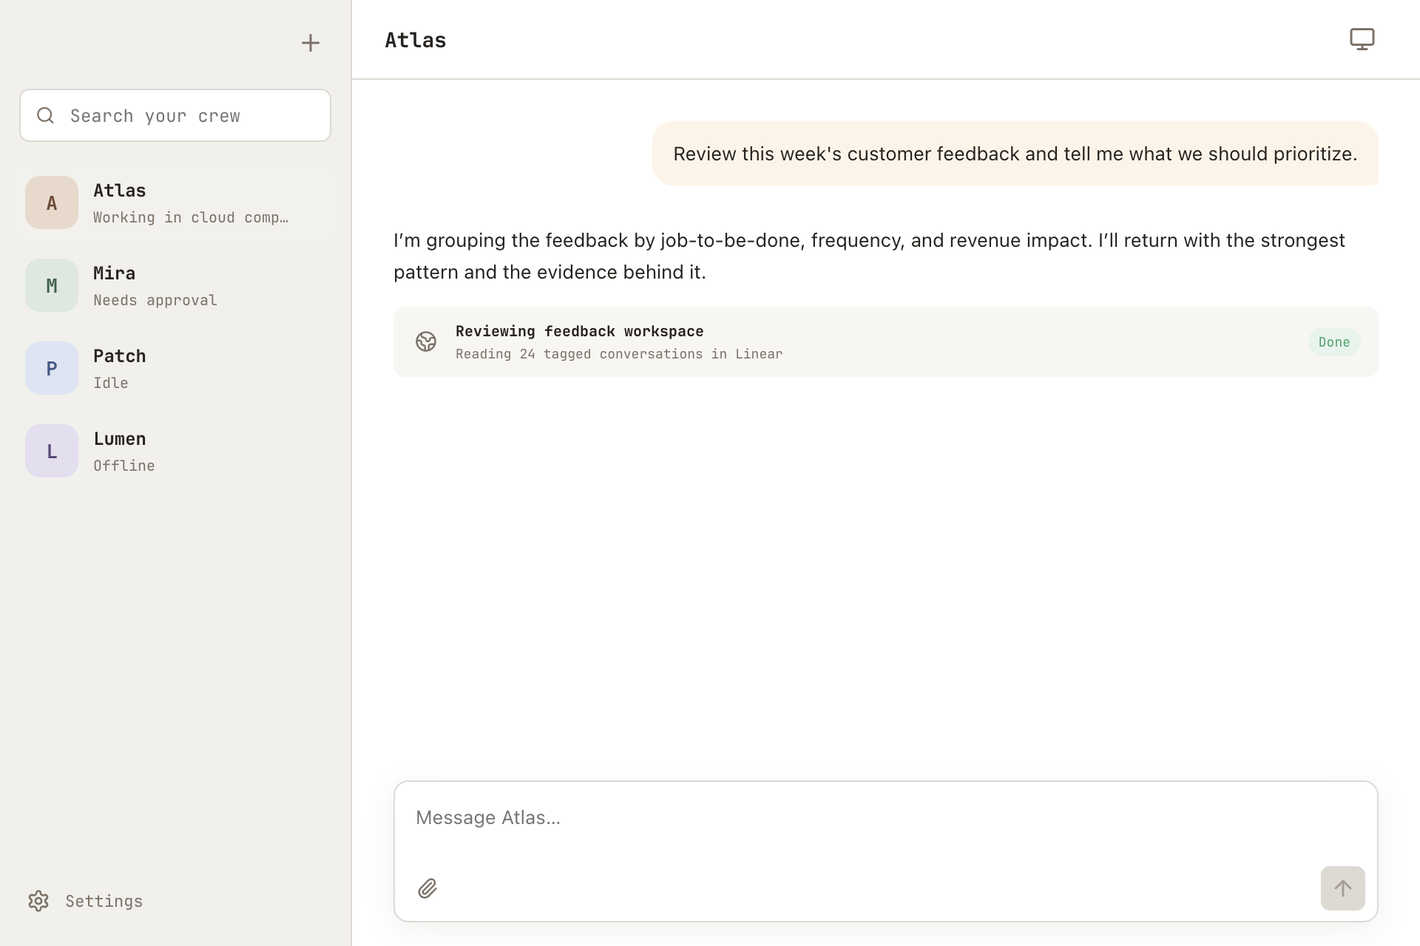
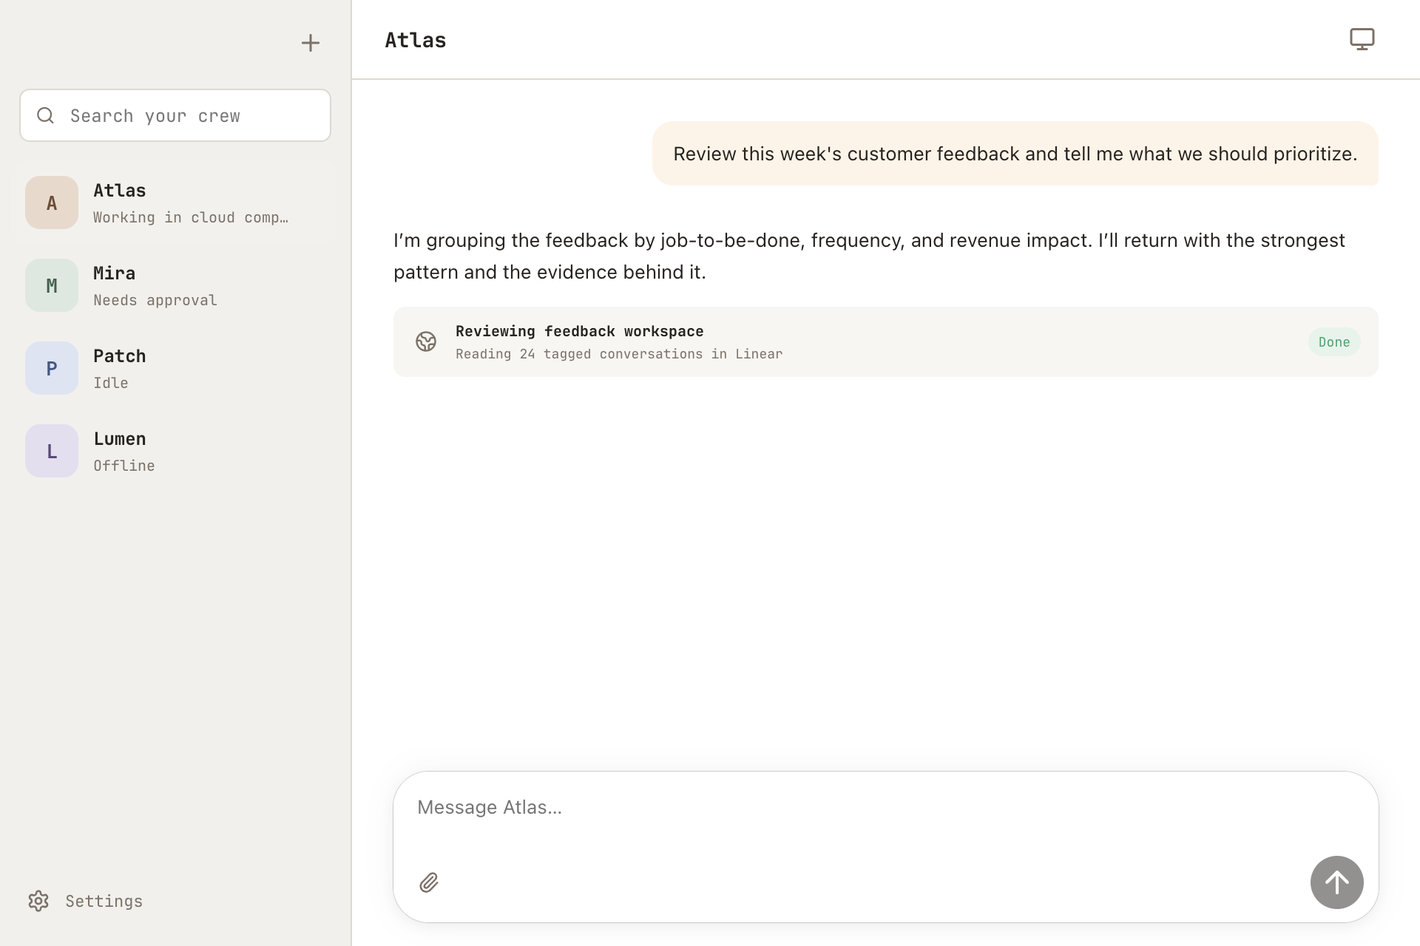
fix: reduce UI to essential controls

Changed region(s): [[0.9062, 0.9062, 0.9688, 0.9688], [0.2812, 0.8438, 0.4062, 0.875], [0.2812, 0.9062, 0.3125, 0.9688]]

diff --git a/src/ui/styles.css b/src/ui/styles.css
@@ -14,7 +14,7 @@ html, body, #root { width:100%; height:100%; margin:0; overflow:hidden; backgrou
 button, input, textarea, select { font:inherit; color:inherit; } button { cursor:pointer; }
 .app-shell { display:grid; grid-template-columns:272px minmax(460px,1fr); height:100%; }
 .app-shell.details-open { grid-template-columns:272px minmax(460px,1fr); }
-.agent-sidebar { display:flex; flex-direction:column; min-width:0; padding:10px 12px 12px; border-right:1px solid var(--border); background:var(--sidebar); -webkit-app-region:drag; }
+.agent-sidebar { display:flex; flex-direction:column; min-width:0; padding:10px 12px 12px; border-right:.5px solid color-mix(in srgb,var(--border) 76%,transparent); background:var(--sidebar); -webkit-app-region:drag; }
 .agent-sidebar button, .agent-sidebar input { -webkit-app-region:no-drag; }
 .sidebar-titlebar { display:flex; align-items:center; justify-content:flex-end; height:38px; padding:0 3px 0 66px; }
 .brand-add{display:grid;width:30px;height:30px;margin-left:auto;place-items:center;padding:0;border:0;border-radius:6px;background:transparent;color:var(--muted)}.brand-add:hover{background:var(--surface);color:var(--text)}
@@ -26,7 +26,7 @@ button, input, textarea, select { font:inherit; color:inherit; } button { cursor
 .avatar { position:relative;display:grid;place-items:center;flex:0 0 auto;width:36px;height:36px;border-radius:10px;background:#ead9cb;color:#714931;font-size:13px;font-weight:700; }.avatar-mira{background:#dce8df;color:#37604a}.avatar-patch{background:#dce4f2;color:#3e5884}.avatar-lumen{background:#e5dff0;color:#594775}.avatar.large{width:54px;height:54px;border-radius:15px;font-size:18px;}
 .agent-copy{display:flex;flex:1;min-width:0;flex-direction:column;gap:4px}.agent-copy strong{display:flex;align-items:center;justify-content:space-between;gap:5px;font-size:12px}.agent-copy strong>span{display:flex;min-width:0;align-items:center;gap:4px}.agent-copy strong svg{color:var(--primary)}.agent-copy time{color:var(--faint);font-size:8px;font-weight:400}.agent-copy>span{overflow:hidden;text-overflow:ellipsis;white-space:nowrap;color:var(--muted);font-size:10px}.count{display:grid;place-items:center;min-width:18px;height:18px;border-radius:9px;background:var(--text);color:var(--surface);font-size:9px}.count.attention{background:var(--amber);color:#fff}
 .sidebar-bottom{display:flex;flex-direction:column;border-top:1px solid var(--border);padding-top:8px}.sidebar-bottom button{display:flex;align-items:center;gap:10px;height:37px;padding:0 9px;border:0;border-radius:6px;background:transparent;color:var(--muted);font-size:11px}.sidebar-bottom button:hover{background:var(--surface);color:var(--text)}
-.conversation{display:grid;grid-template-rows:73px minmax(0,1fr) auto;min-width:0;background:var(--surface)}.conversation-header{display:flex;align-items:center;justify-content:space-between;padding:0 22px;border-bottom:1px solid var(--border);-webkit-app-region:drag}.conversation-header button{-webkit-app-region:no-drag}.conversation-header h1{margin:0;font-size:14px}.conversation-header p{margin:5px 0 0;color:var(--muted);font-size:10px}.header-actions{display:flex;align-items:center;gap:9px}.connection{display:flex;align-items:center;gap:6px;color:var(--muted);font-size:10px}.connection:before{content:"";width:7px;height:7px;border-radius:50%;background:var(--red)}.connection.connected:before{background:var(--green)}.connection.connecting:before{background:var(--amber)}.icon-button,.computer-trigger{display:grid;place-items:center;width:34px;height:34px;padding:0;border:0;border-radius:6px;background:transparent;color:var(--muted)}.icon-button:hover,.computer-trigger:hover{background:var(--bg);color:var(--text)}.computer-trigger{border:1px solid var(--border);background:var(--surface)}
+.conversation{display:grid;grid-template-rows:73px minmax(0,1fr) auto;min-width:0;background:var(--surface)}.conversation-header{display:flex;align-items:center;justify-content:space-between;padding:0 22px;border-bottom:.5px solid transparent;transition:border-color .12s ease;-webkit-app-region:drag}.conversation-header.scrolled{border-bottom-color:color-mix(in srgb,var(--border) 76%,transparent)}.conversation-header button{-webkit-app-region:no-drag}.conversation-header h1{margin:0;font-size:14px}.conversation-header p{margin:5px 0 0;color:var(--muted);font-size:10px}.header-actions{display:flex;align-items:center;gap:9px}.connection{display:flex;align-items:center;gap:6px;color:var(--muted);font-size:10px}.connection:before{content:"";width:7px;height:7px;border-radius:50%;background:var(--red)}.connection.connected:before{background:var(--green)}.connection.connecting:before{background:var(--amber)}.icon-button,.computer-trigger{display:grid;place-items:center;width:34px;height:34px;padding:0;border:0;border-radius:6px;background:transparent;color:var(--muted)}.icon-button:hover,.computer-trigger:hover{background:var(--bg);color:var(--text)}.computer-trigger{border:1px solid var(--border);background:var(--surface)}
 .palette-trigger{display:flex;align-items:center;gap:6px;height:30px;padding:0 7px;border:1px solid var(--border);border-radius:6px;background:var(--bg);color:var(--muted);font-size:9px}.palette-trigger:hover{color:var(--text)}kbd{display:inline-grid;min-width:18px;height:18px;place-items:center;padding:0 4px;border:1px solid var(--border);border-radius:4px;background:var(--surface);color:var(--muted);font-size:8px;line-height:1;box-shadow:0 1px 0 var(--border)}
 .message-scroll{overflow:auto;padding:28px max(28px,calc((100% - 720px)/2));scrollbar-gutter:stable}.conversation-intro{display:flex;flex-direction:column;align-items:center;padding:18px 20px 36px;text-align:center}.conversation-intro h2{margin:13px 0 6px;font-size:17px}.conversation-intro p{max-width:530px;margin:0;color:var(--muted);font:12px/1.65 -apple-system,BlinkMacSystemFont,"Segoe UI",sans-serif}.conversation-intro>span{margin-top:10px;color:var(--faint);font-size:9px;text-transform:uppercase;letter-spacing:.08em}
 .message{max-width:680px;margin:0 auto 26px}.message.user{display:flex;align-items:flex-end;flex-direction:column}.message-author{margin:0 0 7px;color:var(--muted);font-size:9px;text-transform:uppercase;letter-spacing:.07em}.message-body{font:13px/1.65 -apple-system,BlinkMacSystemFont,"Segoe UI",sans-serif;white-space:pre-wrap}.message.user .message-body{max-width:78%;padding:11px 14px;border-radius:14px 14px 4px 14px;background:var(--primary-soft)}.streaming-caret{display:inline-block;width:6px;height:14px;margin-left:3px;vertical-align:-2px;background:var(--primary);animation:blink 1s steps(2) infinite}@keyframes blink{50%{opacity:0}}
@@ -40,7 +40,7 @@ button, input, textarea, select { font:inherit; color:inherit; } button { cursor
 .delete-agent-copy{padding:20px;font:12px/1.6 -apple-system,BlinkMacSystemFont,"Segoe UI",sans-serif}.delete-agent-copy p{margin:0 0 10px;color:var(--muted)}.delete-agent-copy strong{color:var(--red);font-size:11px}.delete-actions{padding:0 20px 20px}.destructive-button{background:var(--red);color:white}.destructive-button:hover{background:color-mix(in srgb,var(--red) 84%,black)}
 .palette-backdrop{position:fixed;z-index:40;inset:0;display:flex;align-items:flex-start;justify-content:center;padding-top:min(16vh,140px);background:rgb(30 25 21/.24);backdrop-filter:blur(3px)}.command-palette{width:min(620px,calc(100vw - 48px));overflow:hidden;border:1px solid var(--border);border-radius:10px;background:var(--surface-raised);box-shadow:0 24px 70px rgb(46 34 24/.2)}.command-palette>label{display:flex;align-items:center;gap:10px;height:54px;padding:0 14px;border-bottom:1px solid var(--border);color:var(--muted)}.command-palette>label input{flex:1;border:0;outline:0;background:transparent;font-size:12px}.palette-results{max-height:360px;overflow:auto;padding:7px}.palette-results button{display:flex;align-items:center;gap:11px;width:100%;padding:9px;border:0;border-radius:6px;background:transparent;text-align:left}.palette-results button:hover,.palette-results button.active{background:var(--primary-soft)}.palette-results button>span{display:grid;width:31px;height:31px;place-items:center;border:1px solid var(--border);border-radius:6px;background:var(--surface);color:var(--muted)}.palette-results button>div{display:flex;flex:1;flex-direction:column;gap:4px}.palette-results strong{font-size:10px}.palette-results small{color:var(--muted);font-size:8px;text-transform:capitalize}.palette-results>p{padding:26px;text-align:center;color:var(--muted);font-size:10px}.command-palette footer{display:flex;justify-content:space-between;padding:9px 12px;border-top:1px solid var(--border);color:var(--faint);font-size:8px}.command-palette footer>span:last-child{display:flex;align-items:center;gap:3px}
 .computer-window{width:min(920px,100%);height:min(620px,100%);overflow:hidden;border:1px solid var(--border);border-radius:11px;background:var(--surface);box-shadow:var(--shadow)}.computer-window>header{display:flex;align-items:center;justify-content:space-between;height:46px;padding:0 14px;border-bottom:1px solid var(--border);font-size:10px}.computer-window>header>div{display:flex;align-items:center;gap:7px}.computer-window>header button{border:0;background:transparent;color:var(--muted);font-size:10px}.status-dot{width:7px;height:7px;border-radius:50%;background:var(--green)}.computer-placeholder{display:flex;height:calc(100% - 46px);align-items:center;justify-content:center;flex-direction:column;background:linear-gradient(145deg,var(--bg),var(--surface));color:var(--muted);text-align:center}.computer-placeholder h2{margin:16px 0 7px;color:var(--text);font-size:16px}.computer-placeholder p{margin:0;font:12px -apple-system,BlinkMacSystemFont,"Segoe UI",sans-serif}.computer-placeholder span{margin-top:16px;color:var(--faint);font-size:9px}.error-toast{position:fixed;z-index:30;right:20px;bottom:20px;display:flex;align-items:center;gap:10px;max-width:430px;padding:11px 12px;border:1px solid color-mix(in srgb,var(--red) 30%,var(--border));border-radius:7px;background:var(--surface);box-shadow:var(--shadow);font-size:10px}.error-toast svg{color:var(--red)}.error-toast button{margin-left:8px;border:0;background:transparent;color:var(--primary);font-size:9px}.loading-screen,.empty-state{display:flex;height:100%;align-items:center;justify-content:center;gap:18px;color:var(--muted);font-size:11px}.loading-logo{width:34px;height:34px;object-fit:contain}
-.conversation{height:100%;overflow:hidden;grid-template-rows:54px minmax(0,1fr) auto}.message-scroll{min-height:0}.composer{margin-bottom:16px}.composer textarea{min-height:48px;padding-bottom:4px}.composer-bottom{padding:0 8px 7px}.message-reactions{opacity:0}.computer-trigger{border:0!important;background:transparent!important}.activity-card{border:0;background:var(--bg)}.activity-icon{width:20px;height:20px;background:transparent}.sidebar-bottom{border-top:0}.agent-row.selected{box-shadow:none;background:color-mix(in srgb,var(--border) 38%,var(--surface))}
+.conversation{height:100%;overflow:hidden;grid-template-rows:54px minmax(0,1fr) auto}.message-scroll{min-height:0}.composer{max-width:48rem;margin-bottom:16px;border:0;border-radius:24px;box-shadow:0 0 0 .5px color-mix(in srgb,var(--text) 20%,transparent),0 3px 7.5px rgb(0 0 0/.04),0 0 20px rgb(0 0 0/.05);background:color-mix(in srgb,var(--surface) 96%,transparent)}.composer textarea{min-height:48px;padding:14px 16px 4px}.composer-bottom{padding:0 10px 9px}.composer-bottom>.submit-button{width:36px;height:36px;border-radius:9999px;background:var(--text);color:var(--surface);opacity:1;transition:opacity .15s,transform .15s}.composer-bottom>.submit-button:hover:not(:disabled){background:var(--text);color:var(--surface);transform:scale(1.03)}.composer-bottom>.submit-button:active:not(:disabled){transform:scale(.96)}.composer-bottom>.submit-button:disabled{cursor:default;background:var(--text);color:var(--surface);opacity:.5}.composer-bottom>.submit-button:focus-visible{outline:2px solid var(--surface);outline-offset:-3px;box-shadow:0 0 0 2px var(--text)}.composer-bottom>.submit-button svg{width:24px;height:24px}.message-reactions{opacity:0}.computer-trigger{border:0!important;background:transparent!important}.activity-card{border:0;background:var(--bg)}.activity-icon{width:20px;height:20px;background:transparent}.sidebar-bottom{border-top:0}.agent-row.selected{box-shadow:none;background:color-mix(in srgb,var(--border) 38%,var(--surface))}
 @media (max-width:1180px){.agent-sidebar{padding-left:9px;padding-right:9px}.detail-panel{width:340px;padding-left:13px;padding-right:13px}}
 @media (max-width:1030px){.app-shell,.app-shell.details-open{grid-template-columns:238px minmax(0,1fr)}.message-scroll{padding-left:28px;padding-right:28px}.composer{margin-left:28px;margin-right:28px}}
 @media (max-width:1080px){.palette-trigger span{display:none}.palette-trigger{width:32px;justify-content:center}.palette-trigger kbd{display:none}}

diff --git a/src/ui/components/Conversation.tsx b/src/ui/components/Conversation.tsx
@@ -1,10 +1,11 @@
-import { ArrowUp, CircleStop, Cloud, File, FileText, Globe2, LoaderCircle, Monitor, Paperclip, Terminal, ThumbsDown, ThumbsUp, X } from "lucide-react";
+import { CircleStop, Cloud, File, FileText, Globe2, LoaderCircle, Monitor, Paperclip, Terminal, ThumbsDown, ThumbsUp, X } from "lucide-react";
 import { useEffect, useRef, useState, type FormEvent } from "react";
 import type { ActivityEvent, Agent, Attachment, ConnectionState, Message, ReactionKind } from "@/domain/types";
 
 const activityIcon = { browser: Globe2, terminal: Terminal, file: FileText, handoff: Cloud, status: Cloud };
 function textOf(message: Message) { return message.parts.filter((part) => part.type === "text").map((part) => part.text).join(""); }
 const formatBytes = (bytes: number) => bytes < 1024 ? `${bytes} B` : bytes < 1024 * 1024 ? `${(bytes / 1024).toFixed(bytes < 10 * 1024 ? 1 : 0)} KB` : `${(bytes / 1024 / 1024).toFixed(1)} MB`;
+function SubmitArrowIcon() { return <svg aria-hidden="true" viewBox="0 0 24 24" fill="none" stroke="currentColor" strokeWidth="2" strokeLinecap="round" strokeLinejoin="round"><path d="m5 12 7-7 7 7" /><path d="M12 19V5" /></svg>; }
 function MessageView({ message, activities, onReact }: { message: Message; activities: ActivityEvent[]; onReact(messageId: string, reaction: ReactionKind): Promise<void> }) {
   const relevant = message.parts.flatMap((part) => part.type === "activity" ? activities.filter((activity) => activity.id === part.activityId) : []);
   const attachments = message.parts.flatMap((part) => part.type === "attachment" ? [part.attachment] : []);
@@ -16,13 +17,13 @@ function MessageView({ message, activities, onReact }: { message: Message; activ
   </div>;
 }
 export function Conversation({ agent, messages, activities, connection, onSend, onReact, onReconnect, onToggleDetails }: { agent: Agent; messages: Message[]; activities: ActivityEvent[]; connection: ConnectionState; onSend(text: string, attachments?: Attachment[]): Promise<void>; onReact(messageId: string, reaction: ReactionKind): Promise<void>; onReconnect(): void; onToggleDetails(): void }) {
-  const [draft, setDraft] = useState(""); const [attachments, setAttachments] = useState<Attachment[]>([]); const [sending, setSending] = useState(false); const scrollRef = useRef<HTMLDivElement>(null);
+  const [draft, setDraft] = useState(""); const [attachments, setAttachments] = useState<Attachment[]>([]); const [sending, setSending] = useState(false); const [isScrolled, setIsScrolled] = useState(false); const scrollRef = useRef<HTMLDivElement>(null);
   useEffect(() => { const element = scrollRef.current; if (element && typeof element.scrollTo === "function") element.scrollTo({ top: element.scrollHeight, behavior: "smooth" }); }, [messages]);
   async function submit(event: FormEvent) { event.preventDefault(); const text = draft.trim(); if ((!text && attachments.length === 0) || sending) return; setDraft(""); setSending(true); try { await onSend(text, attachments); setAttachments([]); } finally { setSending(false); } }
   async function chooseAttachments() { const selected = await window.runtaCrew?.attachments.choose() ?? []; setAttachments((current) => [...current, ...selected.filter((next) => !current.some((item) => item.id === next.id)).map((item) => ({ ...item, source: "local-selection" as const }))].slice(0, 8)); }
   return <main className="conversation">
-    <header className="conversation-header"><h1>{agent.name}</h1><div className="header-actions">{connection !== "connected" && <><span className={`connection ${connection}`}>{connection === "connecting" ? "Connecting" : "Connection lost"}</span><button className="secondary-button" onClick={onReconnect}>Reconnect</button></>}<button className="computer-trigger" aria-label="Open agent computer" onClick={onToggleDetails}><Monitor size={18} /></button></div></header>
-    <div className="message-scroll" ref={scrollRef}>{messages.length === 0 && <div className="conversation-intro"><div className={`avatar avatar-${agent.id} large`}>{agent.avatar}</div><h2>{agent.name}</h2><p>{agent.goal}</p></div>}{messages.map((message) => <MessageView key={message.id} message={message} activities={activities} onReact={onReact} />)}</div>
-    <form className="composer" onSubmit={submit}><textarea aria-label={`Message ${agent.name}`} placeholder={`Message ${agent.name}…`} value={draft} onChange={(event) => setDraft(event.target.value)} onKeyDown={(event) => { if (event.key === "Enter" && !event.shiftKey) { event.preventDefault(); event.currentTarget.form?.requestSubmit(); } }} />{attachments.length > 0 && <div className="composer-attachments">{attachments.map((attachment) => <div key={attachment.id}><File size={14} /><span>{attachment.name}</span><small>{formatBytes(attachment.size)}</small><button type="button" aria-label={`Remove ${attachment.name}`} onClick={() => setAttachments((current) => current.filter((item) => item.id !== attachment.id))}><X size={13} /></button></div>)}</div>}<div className="composer-bottom"><button type="button" className="attach-button" aria-label="Attach files" onClick={() => void chooseAttachments()}><Paperclip size={15} /></button><button aria-label="Send message" disabled={(!draft.trim() && attachments.length === 0) || sending}>{sending ? <CircleStop size={17} /> : <ArrowUp size={17} />}</button></div></form>
+    <header className={`conversation-header ${isScrolled ? "scrolled" : ""}`}><h1>{agent.name}</h1><div className="header-actions">{connection !== "connected" && <><span className={`connection ${connection}`}>{connection === "connecting" ? "Connecting" : "Connection lost"}</span><button className="secondary-button" onClick={onReconnect}>Reconnect</button></>}<button className="computer-trigger" aria-label="Open agent computer" onClick={onToggleDetails}><Monitor size={18} /></button></div></header>
+    <div className="message-scroll" ref={scrollRef} onScroll={(event) => setIsScrolled(event.currentTarget.scrollTop > 0)}>{messages.length === 0 && <div className="conversation-intro"><div className={`avatar avatar-${agent.id} large`}>{agent.avatar}</div><h2>{agent.name}</h2><p>{agent.goal}</p></div>}{messages.map((message) => <MessageView key={message.id} message={message} activities={activities} onReact={onReact} />)}</div>
+    <form className="composer" onSubmit={submit}><textarea aria-label={`Message ${agent.name}`} placeholder={`Message ${agent.name}…`} value={draft} onChange={(event) => setDraft(event.target.value)} onKeyDown={(event) => { if (event.key === "Enter" && !event.shiftKey) { event.preventDefault(); event.currentTarget.form?.requestSubmit(); } }} />{attachments.length > 0 && <div className="composer-attachments">{attachments.map((attachment) => <div key={attachment.id}><File size={14} /><span>{attachment.name}</span><small>{formatBytes(attachment.size)}</small><button type="button" aria-label={`Remove ${attachment.name}`} onClick={() => setAttachments((current) => current.filter((item) => item.id !== attachment.id))}><X size={13} /></button></div>)}</div>}<div className="composer-bottom"><button type="button" className="attach-button" aria-label="Attach files" onClick={() => void chooseAttachments()}><Paperclip size={15} /></button><button className="submit-button" aria-label="Send message" disabled={(!draft.trim() && attachments.length === 0) || sending}>{sending ? <CircleStop size={17} /> : <SubmitArrowIcon />}</button></div></form>
   </main>;
 }

diff --git a/src/ui/App.test.tsx b/src/ui/App.test.tsx
@@ -21,7 +21,9 @@ describe("Runta Crew primary flows", () => {
     await user.type(screen.getByLabelText("Name"), "Scout"); await user.type(screen.getByLabelText("Role"), "Research lead"); await user.type(screen.getByLabelText("Initial goal"), "Track customer feedback");
     await user.click(screen.getByRole("button", { name: "Create agent" }));
     await screen.findByRole("heading", { name: "Scout", level: 1 });
-    await user.type(screen.getByLabelText("Message Scout"), "Start with this week's interviews"); await user.click(screen.getByLabelText("Send message"));
+    const send = screen.getByLabelText("Send message"); expect(send).toBeDisabled();
+    expect([...send.querySelectorAll("path")].map((path) => path.getAttribute("d"))).toEqual(["m5 12 7-7 7 7", "M12 19V5"]);
+    await user.type(screen.getByLabelText("Message Scout"), "Start with this week's interviews"); expect(send).toBeEnabled(); await user.click(send);
     expect(await screen.findByText("Start with this week's interviews")).toBeInTheDocument();
   });
 

diff --git a/DESIGN_SYSTEM.md b/DESIGN_SYSTEM.md
@@ -1,0 +1,49 @@
+# Runta Crew Design System
+
+Runta Crew is a work surface, not a dashboard. Its interface should feel quiet until the user needs to act.
+
+## Visible-element admission rule
+
+Every permanently visible element must do at least one of the following:
+
+1. Enable an immediate user action.
+2. Communicate state that changes the user's next decision.
+3. Identify the current context.
+4. Explain an error or required intervention.
+
+If removing an element does not make a common task harder, less safe, or ambiguous, remove it. Do not add labels, badges, borders, cards, shadows, status dots, helper copy, or decorative artwork merely to make an area feel complete.
+
+## Whitespace
+
+- Prefer open space over filler UI. Empty space establishes hierarchy and keeps conversation content primary.
+- Do not fill blank areas with metrics, onboarding copy, illustrations, or secondary navigation unless the current task requires them.
+- Keep controls close to the object they operate on; do not create extra toolbars for infrequent actions.
+
+## Border usage
+
+- Borders communicate structure or interactivity. They are not decoration.
+- Inputs may keep a subtle border because it makes editability immediately clear.
+- A stationary conversation header has no bottom border. Show a `0.5px` hairline only after content scrolls beneath it.
+- The sidebar boundary uses a low-contrast `0.5px` hairline. It separates regions without becoming a visual column.
+- Avoid nested borders. Prefer spacing or a single soft surface before adding another outline.
+- Do not put borders around self-explanatory icon actions located in an established action area.
+- Use stronger borders only for safety-critical boundaries, focused inputs, errors, approvals, or selected controls.
+
+## Immediate comprehension
+
+- A visible control must be understandable at a glance from its icon, label, position, and current context.
+- Do not rely on users discovering what a permanent control means through trial and error.
+- Use icon-only controls only for conventional actions or when placement makes the meaning unambiguous. Always provide an accessible name.
+- Prefer direct language: describe the action (`Open computer`, `Delete agent`) rather than an internal system concept.
+- Do not show raw infrastructure state unless it affects what the user can do next.
+
+## UI review checklist
+
+Before shipping a UI change, verify:
+
+- Can any new visible element be removed without reducing clarity, safety, or capability?
+- Is any state represented twice?
+- Does every border have a structural, interactive, or safety purpose?
+- Is the default state quieter than its hover, focus, active, error, and approval states?
+- Can a first-time user understand every persistent control without documentation?
+- Does the layout preserve generous whitespace at both the default and minimum window sizes?

diff --git a/AGENTS.md b/AGENTS.md
@@ -6,6 +6,7 @@
 - Do not invent Runta Cloud Agents routes or event framing. Record assumptions in `API_INTEGRATION.md` and require route/transport injection.
 - Mock fixtures belong under `src/clients/mock`, never in React components. Mock computer UI must remain visibly labeled.
 - Default to the light theme and preserve both theme token sets.
+- Read and follow `DESIGN_SYSTEM.md` for every UI change. Apply its visible-element admission rule and border checklist before adding permanent controls or decoration.
 - Use strict TypeScript; do not add `any` escapes.
 - Run `npm run typecheck`, `npm run lint`, `npm test`, `npm run build`, and packaging/smoke checks for release-facing changes.
 - Use Conventional Commits. Changes in this `runta-dev` repository must go through a feature branch and pull request.

diff --git a/README.md b/README.md
@@ -58,6 +58,7 @@ Packaged artifacts are written under `release/`. The app is ad-hoc signed for lo
 - `src/ui`: presentation and focused interaction components.
 
 See [ARCHITECTURE.md](./ARCHITECTURE.md) for process and security boundaries.
+See [DESIGN_SYSTEM.md](./DESIGN_SYSTEM.md) for the UI necessity, whitespace, border, and immediate-comprehension rules.
 
 ## Relationship to the reference project
 
